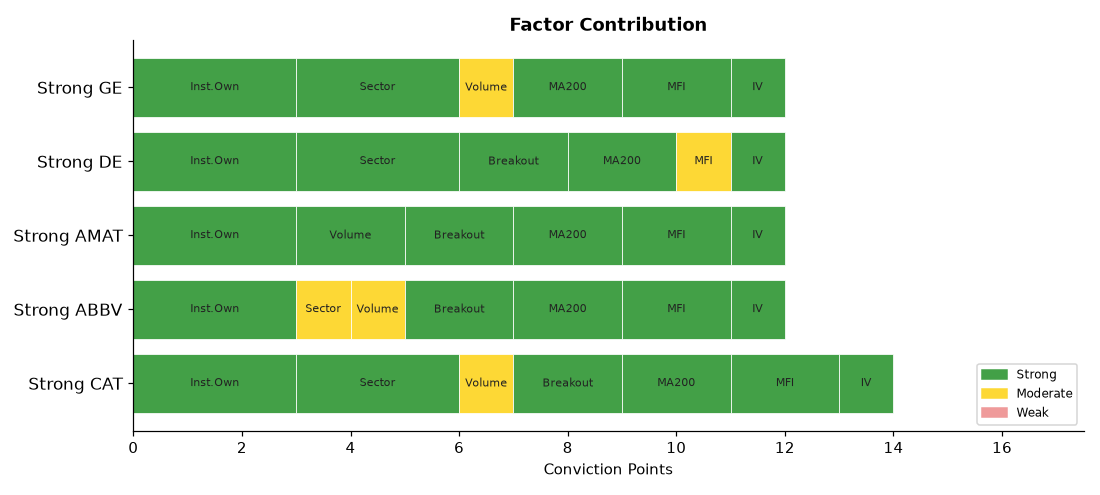
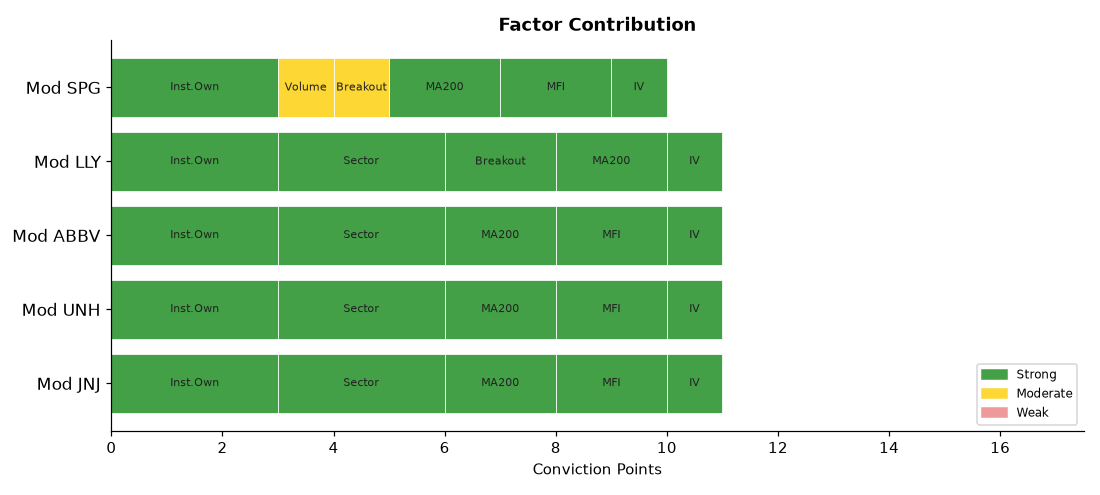
deploy: b7fadf5b06deb90e7ebb92f278722414bdd9750d

diff --git a/index.html b/index.html
@@ -4,7 +4,7 @@
   <meta charset="UTF-8">
   <meta name="viewport" content="width=device-width,initial-scale=1">
   <meta http-equiv="Cache-Control" content="no-cache,no-store,must-revalidate">
-  <title>Stock Breakout Screener — 2026-06-26 04:09</title>
+  <title>Stock Breakout Screener — 2026-06-26 15:21</title>
   <style>
     *{box-sizing:border-box;margin:0;padding:0}
     body{font-family:'Segoe UI',Arial,sans-serif;background:#f0f2f5;
@@ -34,20 +34,20 @@
 
 <div class="hdr">
   <h1>📈 Stock Breakout Screener</h1>
-  <p>Updated: 2026-06-26 04:09 UTC &nbsp;·&nbsp; Phase: Pre-Market (before 9:30 AM ET) &nbsp;·&nbsp;
+  <p>Updated: 2026-06-26 15:21 UTC &nbsp;·&nbsp; Phase: Regular Market Hours &nbsp;·&nbsp;
      129 stocks screened &nbsp;·&nbsp; Top 5 by conviction score</p>
 </div>
 
 <div class="card">
   <strong style="font-size:14px">Market Sentiment: 🐻 Bearish</strong>
   <div class="bar-wrap" style="margin-top:10px">
-    <div style="width:6%;background:#43a047"></div>
-    <div style="width:2%;background:#fdd835"></div>
+    <div style="width:0%;background:#43a047"></div>
+    <div style="width:8%;background:#fdd835"></div>
     <div style="width:92%;background:#e53935"></div>
   </div>
   <div style="font-size:12px;color:#555">
-    🟢 Strong 6% &nbsp;
-    🟡 Moderate 2% &nbsp;
+    🟢 Strong 0% &nbsp;
+    🟡 Moderate 8% &nbsp;
     🔴 Weak 92%
   </div>
 </div>
@@ -59,85 +59,85 @@
                     box-shadow:0 2px 6px rgba(0,0,0,.07)">
           <div style="display:flex;align-items:center;gap:10px;
                       flex-wrap:wrap;margin-bottom:10px">
-            <span style="font-size:22px">🟢</span>
-            <span style="font-size:19px;font-weight:700">1. CAT</span>
-            <span style="font-size:12px;color:#666">Industrials</span>
-            <span style="margin-left:auto;background:#1a237e;color:#fff;
-                         padding:3px 12px;border-radius:12px;
-                         font-size:13px;font-weight:600">
-              14/17
-            </span>
-          </div>
-          <ul style="margin:0;padding-left:18px;font-size:13px;
-                     color:#333;line-height:1.8"><li style="margin:5px 0"><span style="background:#fffde7;color:#f57f17;padding:2px 7px;border-radius:4px;font-size:11px;">⚠</span> Volume: <b>1.7× average</b> — Above-average activity</li><li style="margin:5px 0"><span style="background:#e8f5e9;color:#2e7d32;padding:2px 7px;border-radius:4px;font-size:11px;">✅</span> Candle: close <b>$1057.01</b> vs open <b>$1024.64</b> (+3.2%) — regular market close</li><li style="margin:5px 0"><span style="background:#e8f5e9;color:#2e7d32;padding:2px 7px;border-radius:4px;font-size:11px;">✅</span> 200-Day MA: price <b>$1057.01</b> vs MA <b>$772.64</b> — <b>✅ Above</b> long-term trend</li><li style="margin:5px 0"><span style="background:#e8f5e9;color:#2e7d32;padding:2px 7px;border-radius:4px;font-size:11px;">✅</span> Inst. ownership: <b>72.9%</b> · MFI: <b>72.6</b> · Market cap: <b>$486.9B</b></li></ul>
-        </div>
-        <div style="background:#fff;border:1px solid #ddd;border-radius:10px;
-                    padding:16px 20px;margin-bottom:12px;
-                    box-shadow:0 2px 6px rgba(0,0,0,.07)">
-          <div style="display:flex;align-items:center;gap:10px;
-                      flex-wrap:wrap;margin-bottom:10px">
-            <span style="font-size:22px">🟢</span>
-            <span style="font-size:19px;font-weight:700">2. ABBV</span>
+            <span style="font-size:22px">🟡</span>
+            <span style="font-size:19px;font-weight:700">1. JNJ</span>
             <span style="font-size:12px;color:#666">Healthcare</span>
             <span style="margin-left:auto;background:#1a237e;color:#fff;
                          padding:3px 12px;border-radius:12px;
                          font-size:13px;font-weight:600">
-              12/17
+              11/17
             </span>
           </div>
           <ul style="margin:0;padding-left:18px;font-size:13px;
-                     color:#333;line-height:1.8"><li style="margin:5px 0"><span style="background:#fffde7;color:#f57f17;padding:2px 7px;border-radius:4px;font-size:11px;">⚠</span> Volume: <b>1.5× average</b> — Above-average activity</li><li style="margin:5px 0"><span style="background:#e8f5e9;color:#2e7d32;padding:2px 7px;border-radius:4px;font-size:11px;">✅</span> Candle: close <b>$243.14</b> vs open <b>$233.66</b> (+4.1%) — regular market close</li><li style="margin:5px 0"><span style="background:#e8f5e9;color:#2e7d32;padding:2px 7px;border-radius:4px;font-size:11px;">✅</span> 200-Day MA: price <b>$243.14</b> vs MA <b>$216.70</b> — <b>✅ Above</b> long-term trend</li><li style="margin:5px 0"><span style="background:#e8f5e9;color:#2e7d32;padding:2px 7px;border-radius:4px;font-size:11px;">✅</span> Inst. ownership: <b>76.9%</b> · MFI: <b>66.0</b> · Market cap: <b>$429.6B</b></li></ul>
+                     color:#333;line-height:1.8"><li style="margin:5px 0"><span style="background:#ffebee;color:#b71c1c;padding:2px 7px;border-radius:4px;font-size:11px;">❌</span> Volume: <b>0.5× average</b> — Above-average activity</li><li style="margin:5px 0"><span style="background:#ffebee;color:#b71c1c;padding:2px 7px;border-radius:4px;font-size:11px;">❌</span> Candle: close <b>$253.52</b> vs open <b>$248.27</b> (+2.1%) — regular market close</li><li style="margin:5px 0"><span style="background:#e8f5e9;color:#2e7d32;padding:2px 7px;border-radius:4px;font-size:11px;">✅</span> 200-Day MA: price <b>$253.52</b> vs MA <b>$230.34</b> — <b>✅ Above</b> long-term trend</li><li style="margin:5px 0"><span style="background:#e8f5e9;color:#2e7d32;padding:2px 7px;border-radius:4px;font-size:11px;">✅</span> Inst. ownership: <b>76.9%</b> · MFI: <b>65.7</b> · Market cap: <b>$610.4B</b></li></ul>
         </div>
         <div style="background:#fff;border:1px solid #ddd;border-radius:10px;
                     padding:16px 20px;margin-bottom:12px;
                     box-shadow:0 2px 6px rgba(0,0,0,.07)">
           <div style="display:flex;align-items:center;gap:10px;
                       flex-wrap:wrap;margin-bottom:10px">
-            <span style="font-size:22px">🟢</span>
-            <span style="font-size:19px;font-weight:700">3. AMAT</span>
-            <span style="font-size:12px;color:#666">Technology</span>
+            <span style="font-size:22px">🟡</span>
+            <span style="font-size:19px;font-weight:700">2. UNH</span>
+            <span style="font-size:12px;color:#666">Healthcare</span>
             <span style="margin-left:auto;background:#1a237e;color:#fff;
                          padding:3px 12px;border-radius:12px;
                          font-size:13px;font-weight:600">
-              12/17
+              11/17
             </span>
           </div>
           <ul style="margin:0;padding-left:18px;font-size:13px;
-                     color:#333;line-height:1.8"><li style="margin:5px 0"><span style="background:#e8f5e9;color:#2e7d32;padding:2px 7px;border-radius:4px;font-size:11px;">✅</span> Volume: <b>2.1× average</b> — 🔥 Strong unusual activity</li><li style="margin:5px 0"><span style="background:#e8f5e9;color:#2e7d32;padding:2px 7px;border-radius:4px;font-size:11px;">✅</span> Candle: close <b>$668.00</b> vs open <b>$637.74</b> (+4.7%) — regular market close</li><li style="margin:5px 0"><span style="background:#e8f5e9;color:#2e7d32;padding:2px 7px;border-radius:4px;font-size:11px;">✅</span> 200-Day MA: price <b>$668.00</b> vs MA <b>$387.61</b> — <b>✅ Above</b> long-term trend</li><li style="margin:5px 0"><span style="background:#e8f5e9;color:#2e7d32;padding:2px 7px;border-radius:4px;font-size:11px;">✅</span> Inst. ownership: <b>85.1%</b> · MFI: <b>80.0</b> · Market cap: <b>$530.4B</b></li></ul>
+                     color:#333;line-height:1.8"><li style="margin:5px 0"><span style="background:#ffebee;color:#b71c1c;padding:2px 7px;border-radius:4px;font-size:11px;">❌</span> Volume: <b>0.3× average</b> — Above-average activity</li><li style="margin:5px 0"><span style="background:#ffebee;color:#b71c1c;padding:2px 7px;border-radius:4px;font-size:11px;">❌</span> Candle: close <b>$426.76</b> vs open <b>$416.16</b> (+2.5%) — regular market close</li><li style="margin:5px 0"><span style="background:#e8f5e9;color:#2e7d32;padding:2px 7px;border-radius:4px;font-size:11px;">✅</span> 200-Day MA: price <b>$426.76</b> vs MA <b>$330.43</b> — <b>✅ Above</b> long-term trend</li><li style="margin:5px 0"><span style="background:#e8f5e9;color:#2e7d32;padding:2px 7px;border-radius:4px;font-size:11px;">✅</span> Inst. ownership: <b>85.9%</b> · MFI: <b>60.8</b> · Market cap: <b>$387.6B</b></li></ul>
         </div>
         <div style="background:#fff;border:1px solid #ddd;border-radius:10px;
                     padding:16px 20px;margin-bottom:12px;
                     box-shadow:0 2px 6px rgba(0,0,0,.07)">
           <div style="display:flex;align-items:center;gap:10px;
                       flex-wrap:wrap;margin-bottom:10px">
-            <span style="font-size:22px">🟢</span>
-            <span style="font-size:19px;font-weight:700">4. DE</span>
-            <span style="font-size:12px;color:#666">Industrials</span>
+            <span style="font-size:22px">🟡</span>
+            <span style="font-size:19px;font-weight:700">3. ABBV</span>
+            <span style="font-size:12px;color:#666">Healthcare</span>
             <span style="margin-left:auto;background:#1a237e;color:#fff;
                          padding:3px 12px;border-radius:12px;
                          font-size:13px;font-weight:600">
-              12/17
+              11/17
             </span>
           </div>
           <ul style="margin:0;padding-left:18px;font-size:13px;
-                     color:#333;line-height:1.8"><li style="margin:5px 0"><span style="background:#ffebee;color:#b71c1c;padding:2px 7px;border-radius:4px;font-size:11px;">❌</span> Volume: <b>0.9× average</b> — Above-average activity</li><li style="margin:5px 0"><span style="background:#e8f5e9;color:#2e7d32;padding:2px 7px;border-radius:4px;font-size:11px;">✅</span> Candle: close <b>$630.76</b> vs open <b>$606.46</b> (+4.0%) — regular market close</li><li style="margin:5px 0"><span style="background:#e8f5e9;color:#2e7d32;padding:2px 7px;border-radius:4px;font-size:11px;">✅</span> 200-Day MA: price <b>$630.76</b> vs MA <b>$566.26</b> — <b>✅ Above</b> long-term trend</li><li style="margin:5px 0"><span style="background:#e8f5e9;color:#2e7d32;padding:2px 7px;border-radius:4px;font-size:11px;">✅</span> Inst. ownership: <b>82.8%</b> · MFI: <b>54.9</b> · Market cap: <b>$170.3B</b></li><li style="margin:5px 0"><span style="background:#ffebee;color:#b71c1c;padding:2px 7px;border-radius:4px;font-size:11px;">❌</span> Last similar breakout: <b>Feb 19, 2026</b> → <b>-10.8%</b> over 10 trading days</li></ul>
+                     color:#333;line-height:1.8"><li style="margin:5px 0"><span style="background:#ffebee;color:#b71c1c;padding:2px 7px;border-radius:4px;font-size:11px;">❌</span> Volume: <b>0.3× average</b> — Above-average activity</li><li style="margin:5px 0"><span style="background:#ffebee;color:#b71c1c;padding:2px 7px;border-radius:4px;font-size:11px;">❌</span> Candle: close <b>$249.03</b> vs open <b>$245.26</b> (+1.5%) — regular market close</li><li style="margin:5px 0"><span style="background:#e8f5e9;color:#2e7d32;padding:2px 7px;border-radius:4px;font-size:11px;">✅</span> 200-Day MA: price <b>$249.03</b> vs MA <b>$216.96</b> — <b>✅ Above</b> long-term trend</li><li style="margin:5px 0"><span style="background:#e8f5e9;color:#2e7d32;padding:2px 7px;border-radius:4px;font-size:11px;">✅</span> Inst. ownership: <b>76.9%</b> · MFI: <b>64.5</b> · Market cap: <b>$440.0B</b></li></ul>
         </div>
         <div style="background:#fff;border:1px solid #ddd;border-radius:10px;
                     padding:16px 20px;margin-bottom:12px;
                     box-shadow:0 2px 6px rgba(0,0,0,.07)">
           <div style="display:flex;align-items:center;gap:10px;
                       flex-wrap:wrap;margin-bottom:10px">
-            <span style="font-size:22px">🟢</span>
-            <span style="font-size:19px;font-weight:700">5. GE</span>
-            <span style="font-size:12px;color:#666">Industrials</span>
+            <span style="font-size:22px">🟡</span>
+            <span style="font-size:19px;font-weight:700">4. LLY</span>
+            <span style="font-size:12px;color:#666">Healthcare</span>
             <span style="margin-left:auto;background:#1a237e;color:#fff;
                          padding:3px 12px;border-radius:12px;
                          font-size:13px;font-weight:600">
-              12/17
+              11/17
             </span>
           </div>
           <ul style="margin:0;padding-left:18px;font-size:13px;
-                     color:#333;line-height:1.8"><li style="margin:5px 0"><span style="background:#fffde7;color:#f57f17;padding:2px 7px;border-radius:4px;font-size:11px;">⚠</span> Volume: <b>1.3× average</b> — Above-average activity</li><li style="margin:5px 0"><span style="background:#ffebee;color:#b71c1c;padding:2px 7px;border-radius:4px;font-size:11px;">❌</span> Candle: close <b>$371.36</b> vs open <b>$367.65</b> (+1.0%) — regular market close</li><li style="margin:5px 0"><span style="background:#e8f5e9;color:#2e7d32;padding:2px 7px;border-radius:4px;font-size:11px;">✅</span> 200-Day MA: price <b>$371.36</b> vs MA <b>$312.02</b> — <b>✅ Above</b> long-term trend</li><li style="margin:5px 0"><span style="background:#e8f5e9;color:#2e7d32;padding:2px 7px;border-radius:4px;font-size:11px;">✅</span> Inst. ownership: <b>81.0%</b> · MFI: <b>76.6</b> · Market cap: <b>$388.0B</b></li></ul>
+                     color:#333;line-height:1.8"><li style="margin:5px 0"><span style="background:#ffebee;color:#b71c1c;padding:2px 7px;border-radius:4px;font-size:11px;">❌</span> Volume: <b>0.7× average</b> — Above-average activity</li><li style="margin:5px 0"><span style="background:#e8f5e9;color:#2e7d32;padding:2px 7px;border-radius:4px;font-size:11px;">✅</span> Candle: close <b>$1184.30</b> vs open <b>$1128.80</b> (+4.9%) — regular market close</li><li style="margin:5px 0"><span style="background:#e8f5e9;color:#2e7d32;padding:2px 7px;border-radius:4px;font-size:11px;">✅</span> 200-Day MA: price <b>$1184.30</b> vs MA <b>$1014.61</b> — <b>✅ Above</b> long-term trend</li><li style="margin:5px 0"><span style="background:#e8f5e9;color:#2e7d32;padding:2px 7px;border-radius:4px;font-size:11px;">✅</span> Inst. ownership: <b>85.4%</b> · MFI: <b>48.2</b> · Market cap: <b>$1055.7B</b></li></ul>
+        </div>
+        <div style="background:#fff;border:1px solid #ddd;border-radius:10px;
+                    padding:16px 20px;margin-bottom:12px;
+                    box-shadow:0 2px 6px rgba(0,0,0,.07)">
+          <div style="display:flex;align-items:center;gap:10px;
+                      flex-wrap:wrap;margin-bottom:10px">
+            <span style="font-size:22px">🟡</span>
+            <span style="font-size:19px;font-weight:700">5. SPG</span>
+            <span style="font-size:12px;color:#666">Real Estate</span>
+            <span style="margin-left:auto;background:#1a237e;color:#fff;
+                         padding:3px 12px;border-radius:12px;
+                         font-size:13px;font-weight:600">
+              10/17
+            </span>
+          </div>
+          <ul style="margin:0;padding-left:18px;font-size:13px;
+                     color:#333;line-height:1.8"><li style="margin:5px 0"><span style="background:#fffde7;color:#f57f17;padding:2px 7px;border-radius:4px;font-size:11px;">⚠</span> Volume: <b>1.8× average</b> — Above-average activity</li><li style="margin:5px 0"><span style="background:#fffde7;color:#f57f17;padding:2px 7px;border-radius:4px;font-size:11px;">⚠</span> Candle: close <b>$225.49</b> vs open <b>$222.12</b> (+1.5%) — regular market close</li><li style="margin:5px 0"><span style="background:#e8f5e9;color:#2e7d32;padding:2px 7px;border-radius:4px;font-size:11px;">✅</span> 200-Day MA: price <b>$225.49</b> vs MA <b>$194.74</b> — <b>✅ Above</b> long-term trend</li><li style="margin:5px 0"><span style="background:#e8f5e9;color:#2e7d32;padding:2px 7px;border-radius:4px;font-size:11px;">✅</span> Inst. ownership: <b>95.0%</b> · MFI: <b>67.3</b> · Market cap: <b>$86.0B</b></li></ul>
         </div>
 
 
@@ -168,93 +168,93 @@
   
         <tr>
           <td style="font-weight:700;text-align:left;padding-left:10px">
-            🟢 CAT</td>
-          <td style="background:#fff9c4">1.7×</td>
-          <td style="background:#c8e6c9">+3.2%</td>
-          <td style="background:#c8e6c9">
-            ▲ Above</td>
-          <td style="background:#c8e6c9">
-            72.9%</td>
-          <td style="background:#c8e6c9">
-            72.6</td>
-          <td style="background:#c8e6c9">Industrials</td>
-          <td style="background:#c8e6c9">
-            254.0%</td>
-          <td style="background:#ffcdd2">
-            N/A</td>
-          <td style="font-weight:800;font-size:15px">14/17</td>
-        </tr>
-        <tr>
-          <td style="font-weight:700;text-align:left;padding-left:10px">
-            🟢 ABBV</td>
-          <td style="background:#fff9c4">1.5×</td>
-          <td style="background:#c8e6c9">+4.1%</td>
+            🟡 JNJ</td>
+          <td style="background:#ffcdd2">0.5×</td>
+          <td style="background:#ffcdd2">+2.1%</td>
           <td style="background:#c8e6c9">
             ▲ Above</td>
           <td style="background:#c8e6c9">
             76.9%</td>
           <td style="background:#c8e6c9">
-            66.0</td>
-          <td style="background:#fff9c4">Healthcare</td>
+            65.7</td>
+          <td style="background:#c8e6c9">Healthcare</td>
           <td style="background:#c8e6c9">
-            183.3%</td>
+            241.8%</td>
           <td style="background:#ffcdd2">
             N/A</td>
-          <td style="font-weight:800;font-size:15px">12/17</td>
+          <td style="font-weight:800;font-size:15px">11/17</td>
         </tr>
         <tr>
           <td style="font-weight:700;text-align:left;padding-left:10px">
-            🟢 AMAT</td>
-          <td style="background:#c8e6c9">2.1×</td>
-          <td style="background:#c8e6c9">+4.7%</td>
+            🟡 UNH</td>
+          <td style="background:#ffcdd2">0.3×</td>
+          <td style="background:#ffcdd2">+2.5%</td>
           <td style="background:#c8e6c9">
             ▲ Above</td>
           <td style="background:#c8e6c9">
-            85.1%</td>
+            85.9%</td>
           <td style="background:#c8e6c9">
-            80.0</td>
-          <td style="background:#ffcdd2">Technology</td>
+            60.8</td>
+          <td style="background:#c8e6c9">Healthcare</td>
           <td style="background:#c8e6c9">
-            292.1%</td>
+            244.9%</td>
           <td style="background:#ffcdd2">
             N/A</td>
-          <td style="font-weight:800;font-size:15px">12/17</td>
+          <td style="font-weight:800;font-size:15px">11/17</td>
         </tr>
         <tr>
           <td style="font-weight:700;text-align:left;padding-left:10px">
-            🟢 DE</td>
-          <td style="background:#ffcdd2">0.9×</td>
-          <td style="background:#c8e6c9">+4.0%</td>
+            🟡 ABBV</td>
+          <td style="background:#ffcdd2">0.3×</td>
+          <td style="background:#ffcdd2">+1.5%</td>
           <td style="background:#c8e6c9">
             ▲ Above</td>
           <td style="background:#c8e6c9">
-            82.8%</td>
-          <td style="background:#fff9c4">
-            54.9</td>
-          <td style="background:#c8e6c9">Industrials</td>
+            76.9%</td>
           <td style="background:#c8e6c9">
-            144.7%</td>
+            64.5</td>
+          <td style="background:#c8e6c9">Healthcare</td>
+          <td style="background:#c8e6c9">
+            178.6%</td>
           <td style="background:#ffcdd2">
-            -10.8%</td>
-          <td style="font-weight:800;font-size:15px">12/17</td>
+            N/A</td>
+          <td style="font-weight:800;font-size:15px">11/17</td>
         </tr>
         <tr>
           <td style="font-weight:700;text-align:left;padding-left:10px">
-            🟢 GE</td>
-          <td style="background:#fff9c4">1.3×</td>
-          <td style="background:#ffcdd2">+1.0%</td>
+            🟡 LLY</td>
+          <td style="background:#ffcdd2">0.7×</td>
+          <td style="background:#c8e6c9">+4.9%</td>
           <td style="background:#c8e6c9">
             ▲ Above</td>
           <td style="background:#c8e6c9">
-            81.0%</td>
+            85.4%</td>
+          <td style="background:#ffcdd2">
+            48.2</td>
+          <td style="background:#c8e6c9">Healthcare</td>
           <td style="background:#c8e6c9">
-            76.6</td>
-          <td style="background:#c8e6c9">Industrials</td>
-          <td style="background:#c8e6c9">
-            204.6%</td>
+            208.9%</td>
           <td style="background:#ffcdd2">
             N/A</td>
-          <td style="font-weight:800;font-size:15px">12/17</td>
+          <td style="font-weight:800;font-size:15px">11/17</td>
+        </tr>
+        <tr>
+          <td style="font-weight:700;text-align:left;padding-left:10px">
+            🟡 SPG</td>
+          <td style="background:#fff9c4">1.8×</td>
+          <td style="background:#fff9c4">+1.5%</td>
+          <td style="background:#c8e6c9">
+            ▲ Above</td>
+          <td style="background:#c8e6c9">
+            95.0%</td>
+          <td style="background:#c8e6c9">
+            67.3</td>
+          <td style="background:#ffcdd2">Real Estate</td>
+          <td style="background:#c8e6c9">
+            68.3%</td>
+          <td style="background:#ffcdd2">
+            N/A</td>
+          <td style="font-weight:800;font-size:15px">10/17</td>
         </tr>
 </table>
 </div>
@@ -277,58 +277,58 @@
       
         <tr>
           <td style="text-align:left;padding-left:10px;font-weight:600">
-            #1 Industrials</td>
-          <td style="background:#e8f5e9;color:#2e7d32;font-weight:700">+2.17%</td>
+            #1 Healthcare</td>
+          <td style="background:#e8f5e9;color:#2e7d32;font-weight:700">+2.69%</td>
         </tr>
         <tr>
           <td style="text-align:left;padding-left:10px;font-weight:600">
-            #2 Healthcare</td>
-          <td style="background:#e8f5e9;color:#2e7d32;font-weight:700">+1.49%</td>
+            #2 Financials</td>
+          <td style="background:#ffebee;color:#c62828;font-weight:700">+nan%</td>
         </tr>
         <tr>
           <td style="text-align:left;padding-left:10px;font-weight:600">
-            #3 Materials</td>
-          <td style="background:#e8f5e9;color:#2e7d32;font-weight:700">+1.33%</td>
+            #3 Consumer Stpl</td>
+          <td style="background:#e8f5e9;color:#2e7d32;font-weight:700">+1.50%</td>
         </tr>
         <tr>
           <td style="text-align:left;padding-left:10px;font-weight:600">
-            #4 Energy</td>
-          <td style="background:#e8f5e9;color:#2e7d32;font-weight:700">+0.97%</td>
+            #4 Consumer Disc</td>
+          <td style="background:#e8f5e9;color:#2e7d32;font-weight:700">+1.41%</td>
         </tr>
         <tr>
           <td style="text-align:left;padding-left:10px;font-weight:600">
-            #5 Technology</td>
-          <td style="background:#e8f5e9;color:#2e7d32;font-weight:700">+0.83%</td>
+            #5 Real Estate</td>
+          <td style="background:#e8f5e9;color:#2e7d32;font-weight:700">+1.14%</td>
         </tr>
         <tr>
           <td style="text-align:left;padding-left:10px;font-weight:600">
-            #6 Utilities</td>
-          <td style="background:#e8f5e9;color:#2e7d32;font-weight:700">+0.68%</td>
+            #6 Comm. Services</td>
+          <td style="background:#e8f5e9;color:#2e7d32;font-weight:700">+1.03%</td>
         </tr>
         <tr>
           <td style="text-align:left;padding-left:10px;font-weight:600">
-            #7 Real Estate</td>
-          <td style="background:#e8f5e9;color:#2e7d32;font-weight:700">+0.18%</td>
+            #7 Utilities</td>
+          <td style="background:#e8f5e9;color:#2e7d32;font-weight:700">+0.49%</td>
         </tr>
         <tr>
           <td style="text-align:left;padding-left:10px;font-weight:600">
-            #8 Financials</td>
-          <td style="background:#ffebee;color:#c62828;font-weight:700">-0.50%</td>
+            #8 Energy</td>
+          <td style="background:#ffebee;color:#c62828;font-weight:700">-0.30%</td>
         </tr>
         <tr>
           <td style="text-align:left;padding-left:10px;font-weight:600">
-            #9 Consumer Stpl</td>
-          <td style="background:#ffebee;color:#c62828;font-weight:700">-0.59%</td>
+            #9 Materials</td>
+          <td style="background:#ffebee;color:#c62828;font-weight:700">-0.48%</td>
         </tr>
         <tr>
           <td style="text-align:left;padding-left:10px;font-weight:600">
-            #10 Comm. Services</td>
-          <td style="background:#ffebee;color:#c62828;font-weight:700">-0.90%</td>
+            #10 Industrials</td>
+          <td style="background:#ffebee;color:#c62828;font-weight:700">-1.02%</td>
         </tr>
         <tr>
           <td style="text-align:left;padding-left:10px;font-weight:600">
-            #11 Consumer Disc</td>
-          <td style="background:#ffebee;color:#c62828;font-weight:700">-1.49%</td>
+            #11 Technology</td>
+          <td style="background:#ffebee;color:#c62828;font-weight:700">-1.72%</td>
         </tr>
     </table>
   </div>
@@ -367,7 +367,7 @@
         <li><b>Scoring weights:</b>
             Inst.Own(3) · Sector(3) · Volume(2) · Breakout(2) ·
             MA200(2) · MFI(2) · History(2) · IV(1) = 17pts max</li>
-        <li><b>Run time:</b> 2026-06-26 04:09 UTC — Market phase: Pre-Market (before 9:30 AM ET)</li>
+        <li><b>Run time:</b> 2026-06-26 15:21 UTC — Market phase: Regular Market Hours</li>
       </ul>
     </div>
 
